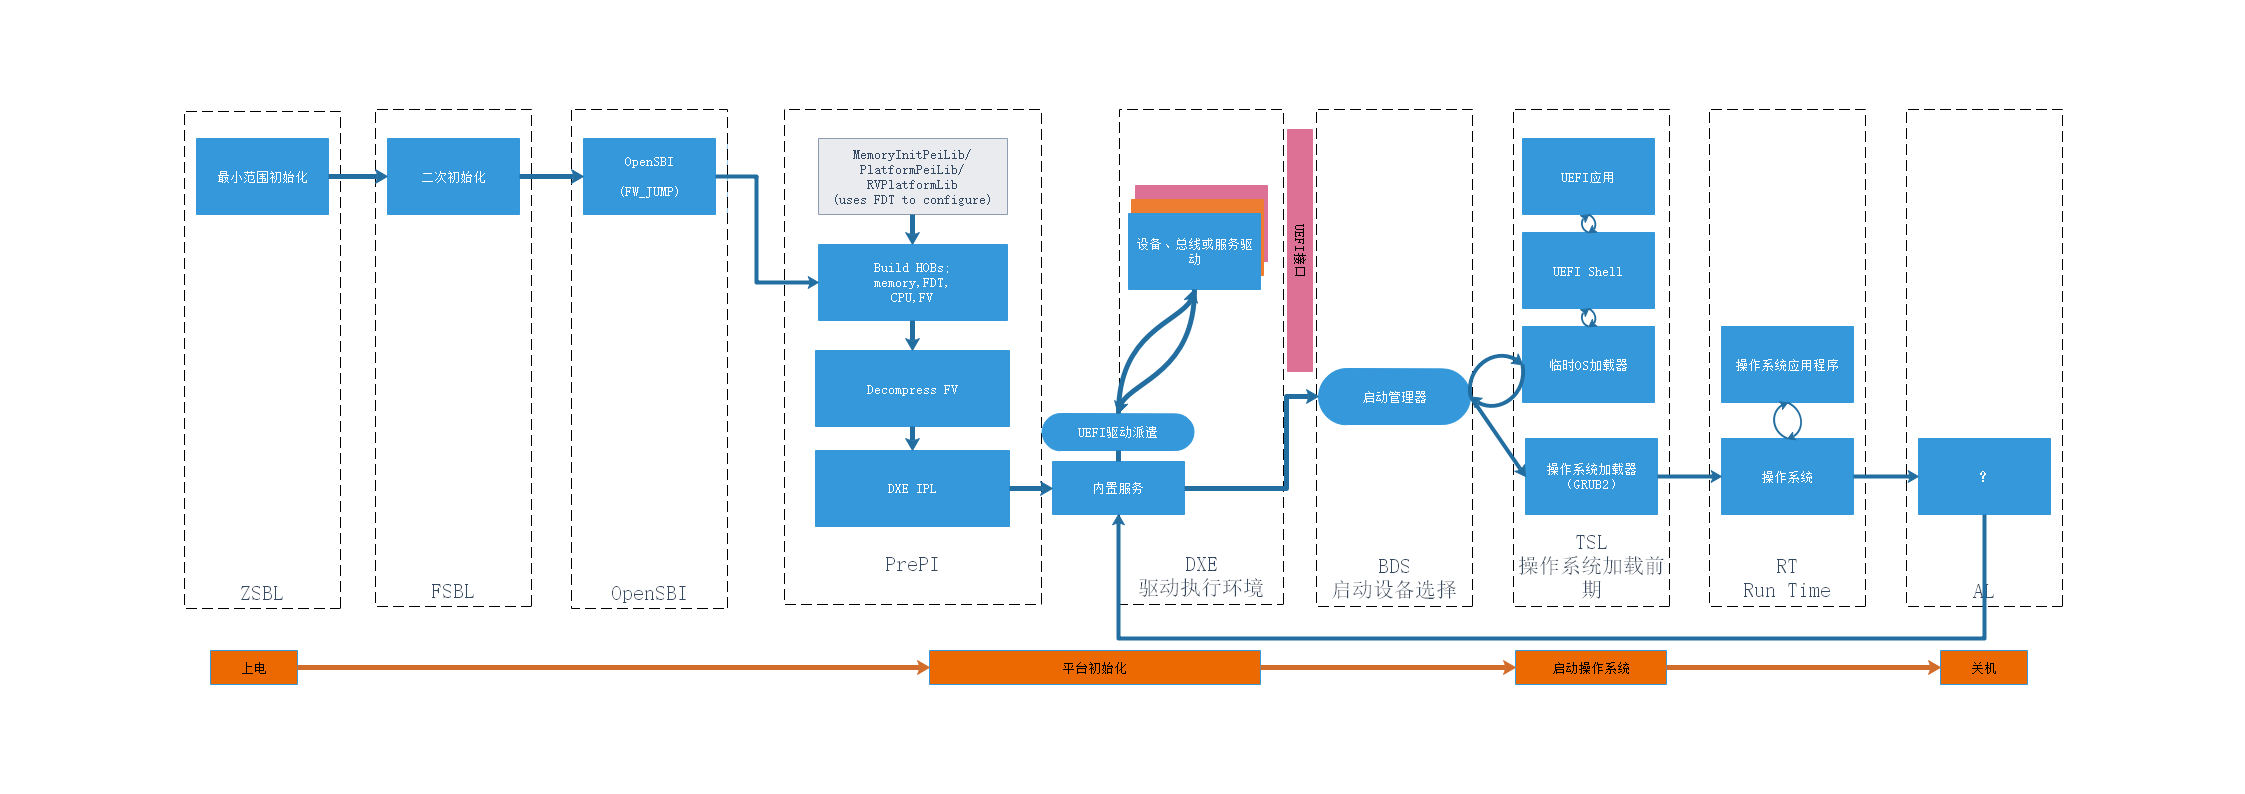
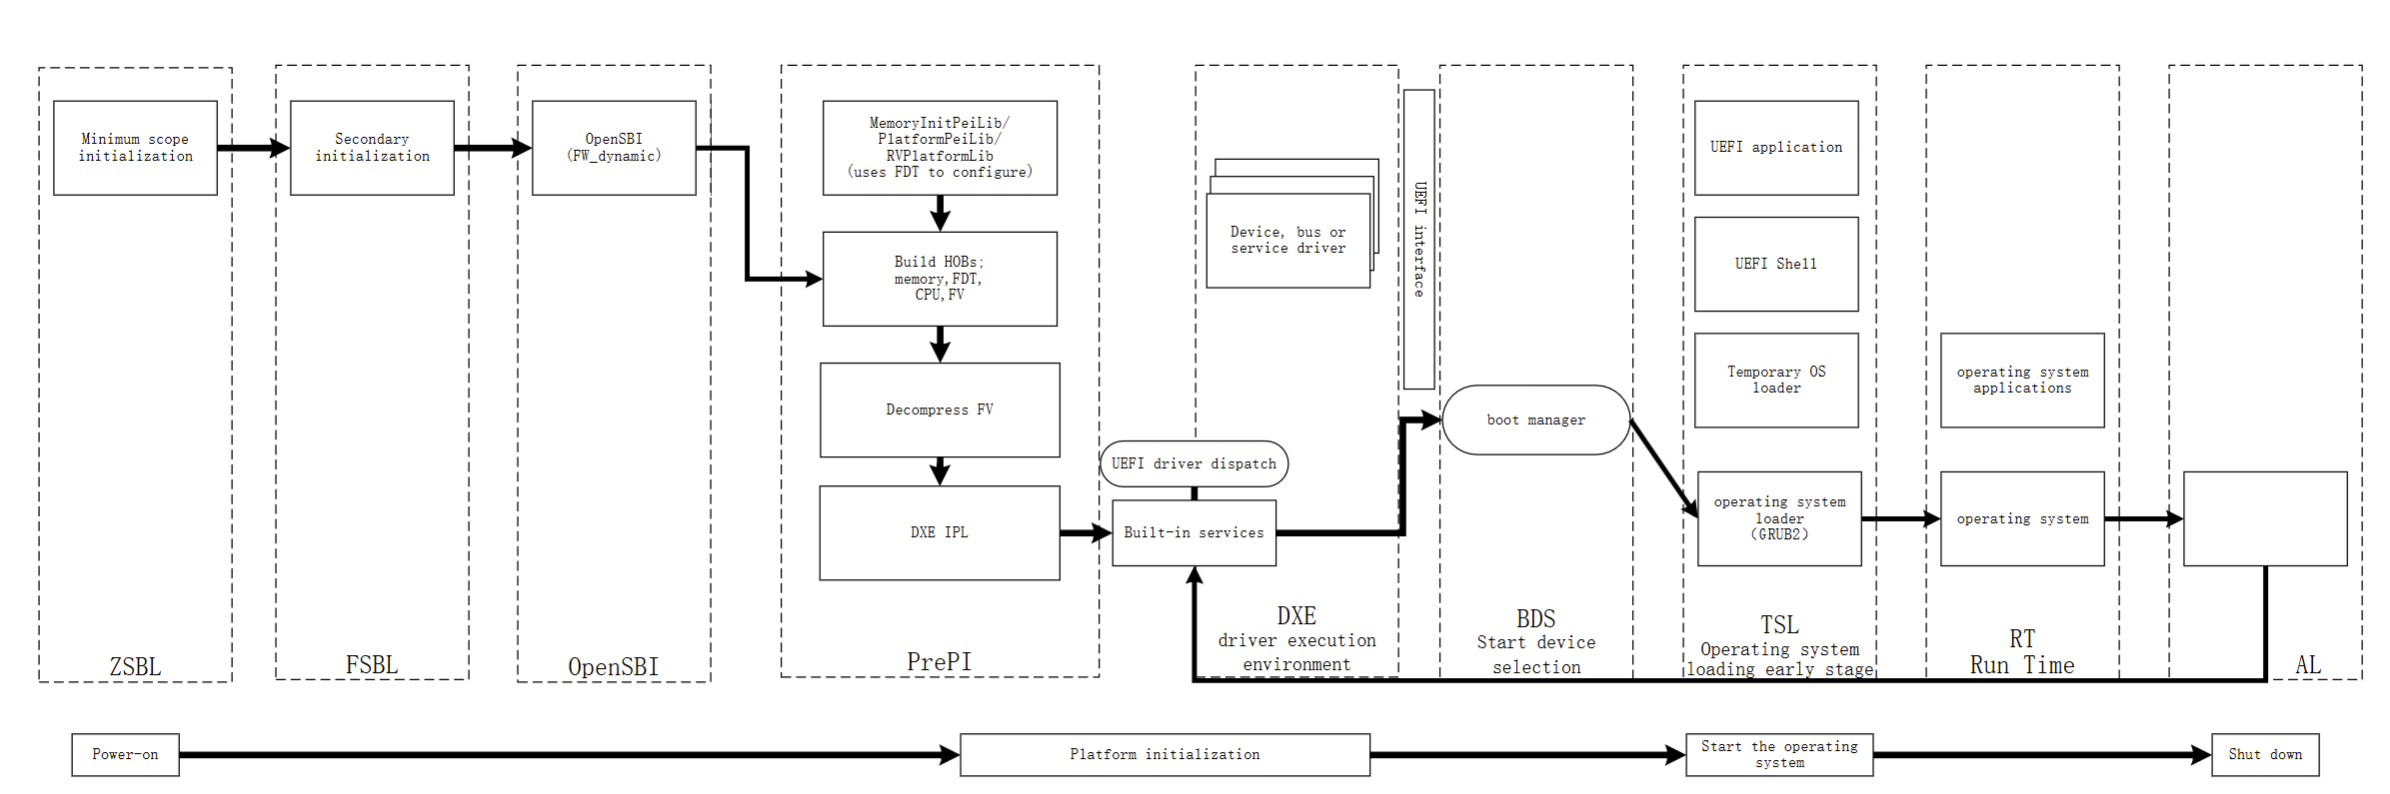
Docs: Revised Sophgo product series documentation
(cherry picked from commit 4f189cc274380681825a42b675710d04b69b0b28)

Revise the product series document and prepare to add relevant items of SG2044.

(cherry picked from commit 4f189cc274380681825a42b675710d04b69b0b28)

diff --git a/Platform/Sophgo/About_Sophgo_platform.md b/Platform/Sophgo/About_Sophgo_platform.md
@@ -1,17 +1,48 @@
-# Sophogo SG2042 EDK2 RISC-V Platform Project
-## Sophgo SG2042 Platform
-The development work for this project was carried out around the Sophgo SG2042 EVB development board.
-The deployment of EDK2 was completed on the EVB test version. Below is the external appearance display of the EVB version.
-![image](Documents/Media/Sophgo_SG2042_EVB.png)
+# Sophgo EDK2 RISC-V Platform Project
 
-SG2042 is a server processor based on the RISC-V architecture.It has 64 RISC-V cores and supports up to 2-way SG2042 interconnectivity.
-Each SG2042 CPU can be configured with a maximum of 4 DIMM memory slots (RDIMM & UDIMM), supporting a maximum memory capacity of 256GB. It also supports a maximum of 32 PCIe 4.0 channels.
-![image](Documents/Media/SG2042_CPU.png)
+## Sophgo Product Series
 
-## SG2042 EDK2 RISC-V Design and the Boot Processes
-The SG2042 RISC-V EDK2 project is developed based on the original Sophgo SG2042 project.SG2042 RISC-V edk2 is designed and optimized based on the edk2 startup phase. The startup process can be roughly divided into the following stages:**ZSBL+FSBL+OpenSBI+EDK2+GRUB2+OS**.The design diagram and start-up process are shown in the figure below.
+### 1. SG2042
 
-**SG2042 RISC-V EDK2 startup flowchart**
+![image](Documents/Media/SG2042.png)
+
+A Server SOC (System-on-Chip) integrates 64 high performance RISC-V cores with 64MB system cache. RISC-V clock runs at 2GHz.
+
+
+| RISC-V Cores | Frequency | System Cache | Connectivity   | DDR           | Other              |
+| ------------ | --------- | ------------ | -------------- | ------------- | ------------------ |
+| 64           | 2GHz      | 64MB         | 32X PCIe Gen 4 | 256 bits DDR4 | RVV0.7, SV39, CCIX |
+
+### 2. SG2044
+
+![image](Documents/Media/SG2044.png)
+
+Second-generation RISC-V server-grade processor.
+
+
+| RISC-V Cores | Frequency | DDR              | Connectivity   | Other                           |
+| ------------ | --------- | ---------------- | -------------- | ------------------------------- |
+| 64           | 2.6GHz    | 512 bits LPDDR5X | 40X PCIe Gen 5 | RVV1.0, SV48, SOPHON TPU, Codec |
+
+## Sophgo Platform
+
+EDK2 has been adapted according to different hardware platforms and is mainly divided into SG2044 series and SG2042 series.Completed EDK2 adaptation according to different hardware platforms.
+
+SG2044 Series
+
+* SG2044 EVB
+
+SG2042 Series
+
+* SG2042 X8 EVB
+* SG2042 X4 EVB
+
+## SG20XX series EDK2 RISC-V Design and the Boot Processes
+
+The SG20XX RISC-V EDK2 project is developed based on the original Sophgo SG20XX project.SG20XX series RISC-V EDK2 is designed and optimized based on the EDK2 startup phase. The startup process can be roughly divided into the following stages: **ZSBL+FSBL+OpenSBI+EDK2+GRUB2+OS** .
+The design diagram and start-up process are shown in the figure below.
+
+**SG20XX series RISC-V EDK2 startup flowchart**
 ![image](Documents/Media/EDK2_SDU_Programme.png)
 
 **ZSBL Phase**
@@ -22,13 +53,14 @@ ZSBL is the first stage of chip initialization, Code provided by Sophgo.the main
 
 **Note:** The FSBL here corresponds to the ZSBL stage code provided by Sophgo.
 The ZSBL stage works for the following:
+
 1. Initialize the serial port of the ZSBL stage for DEBUG.
 2. Establish a memory mapping table for initializing and configuring the memory management of the operating system or firmware.
 3. Initialization of some CPU functions.
 
 **OpenSBI Phase**
 
-OpenSBI provides the conditions for platform initialization of SG2042, which runs as an independent firmware and an environment of an initialization link before edk2, which exists in the form of FW_PAYLOAD, which initializes the system in M-mode and initializes some functions of SG2042 , and put the subsequent edk2 operating environment in S-mode.
+OpenSBI provides the conditions for platform initialization of SG20XX, which runs as an independent firmware and an environment of an initialization link before edk2, which exists in the form of FW_PAYLOAD, which initializes the system in M-mode and initializes some functions of SG20XX , and put the subsequent edk2 operating environment in S-mode.
 
 **PrePI Phase**
 
@@ -36,7 +68,7 @@ The PrePI phase builds some HOBs on Memory, CPU, FV, Stack and processor smbios 
 
 **DXE Phase**
 
-edk2 DXE OpenSBI protocol provides the unified interface for all DXE drivers to invoke SBI services，the DXE stage mainly adds the SG2042 SD card reading driver to read the contents of the SD card.
+EDK2 DXE OpenSBI protocol provides the unified interface for all DXE drivers to invoke SBI services，the DXE stage mainly adds the SG20XX SD card reading driver to read the contents of the SD card.
 
 **BDS Phase**
 
